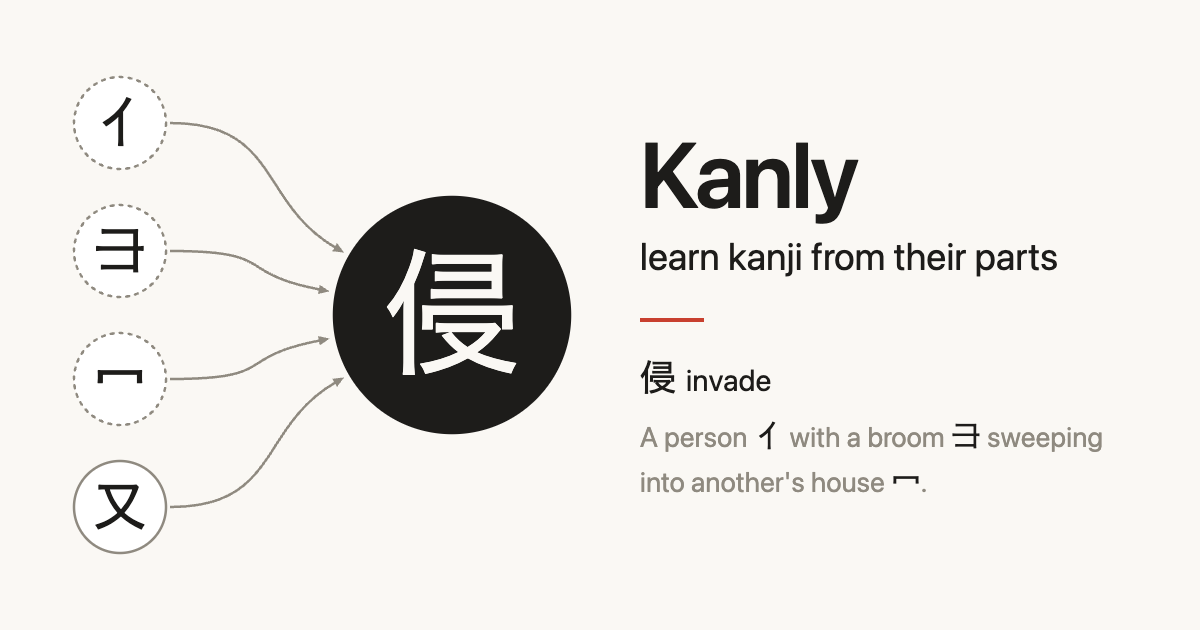
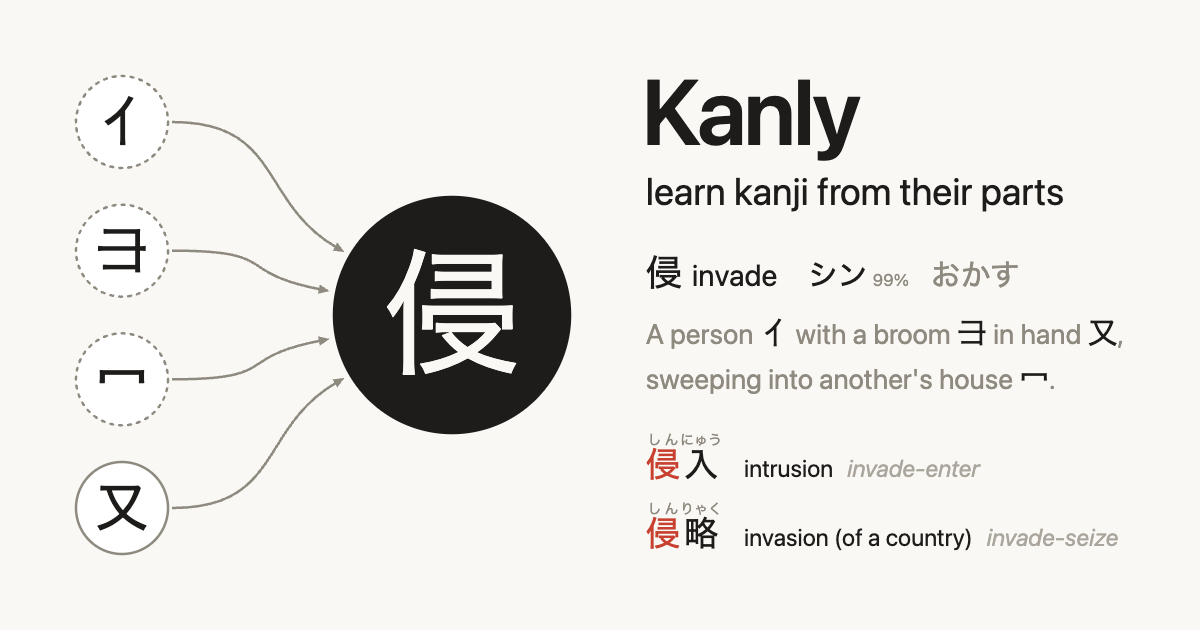
Mnemonics name every part; sound parts are said to be sound parts; the preview redrawn with readings and words

diff --git a/scripts/check_written.py b/scripts/check_written.py
@@ -66,6 +66,14 @@ def main() -> None:
         print(k, p)
     print(f"{len(cards)} cards, {len(problems)} structural problems")
 
+    parts = {x["kanji"]: [p["part"] for p in x["parts"]] for f in sorted((LLM / "in").glob("*.json")) for x in json.loads(f.read_text())}
+    skipped = [(k, [p for p in parts[k] if p not in x["story"]]) for k, x in cards.items()
+               if x.get("story") and x.get("kind") == "mnemonic" and k in parts]
+    for k, ps in skipped:
+        if ps:
+            print(k, "mnemonic leaves out", " ".join(ps))
+    print(f"{sum(1 for _, ps in skipped if ps)} mnemonics that leave out a part")
+
     pairs = jmdict_pairs()
     missing = [(k, w["w"], w["r"]) for k, x in cards.items() for w in x["words"] + x.get("more", [])
                if w["r"] not in pairs.get(w["w"], ())]

diff --git a/data/llm/INSTRUCTIONS.md b/data/llm/INSTRUCTIONS.md
@@ -67,9 +67,17 @@ that only occur inside compounds. Write what a good teacher would put on the car
     with its sound in this word (sound changes included: 一緒 いっ+しょ, 日本 に+ほん), kana as themselves with "",
     a special-reading word as one piece. This is shown above the word; it must be right.
 - **more**: up to 10 further useful words, same format, most used first.
-- **story**: one short sentence about the shape, at most 14 words, plain English, that helps remember the
-  kanji from its look or its parts. Write part characters inline after their names, as in
-  "A person 亻 resting by a tree 木". Say something the keyword does not already say: no "A picture of the sun."
+- **story**: one short sentence about the shape, at most 14 words (20 for three or more parts), plain English,
+  that helps remember the kanji from its look or its parts. Write part characters inline after their names, as in
+  "A person 亻 resting by a tree 木", each written exactly as in `parts` (竹, not ⺮). A mnemonic uses every
+  entry of `parts`: a part left out is a part the learner cannot place (侵 needs its 又, not only 亻, ⺕ and 冖).
+  Make it one scene told in a full sentence, not a list of parts strung with commas
+  ("A person 亻 with a broom ⺕ in hand 又, sweeping into another's house 冖", not "A person 亻, broom ⺕, hand 又, house 冖").
+  A part that is in the kanji for its sound (`"sound": true`, when that is really its role) is not forced into
+  the scene: tell the scene with the meaning parts and say what the sound part does, with the reading only when
+  it is the same ("Threads 糸 gathered into one bundle; 忩 gives the sound ソウ"; "Raw silk thread 糸 with nothing
+  added; 屯 is the sound part"). Keep one scene when the sound part fits it naturally (脂: flesh 月 that tastes good 旨).
+  An origin story may leave parts out when the character was never a sum of them (高 is a tower). Say something the keyword does not already say: no "A picture of the sun."
   For a simple pictograph say what is not obvious (日: "Once a circle with a dot; the brush squared it.").
   `null` when nothing useful can be said.
 - **kind**: `"origin"` only if the story is the accepted history of the character (中 is a pole with
